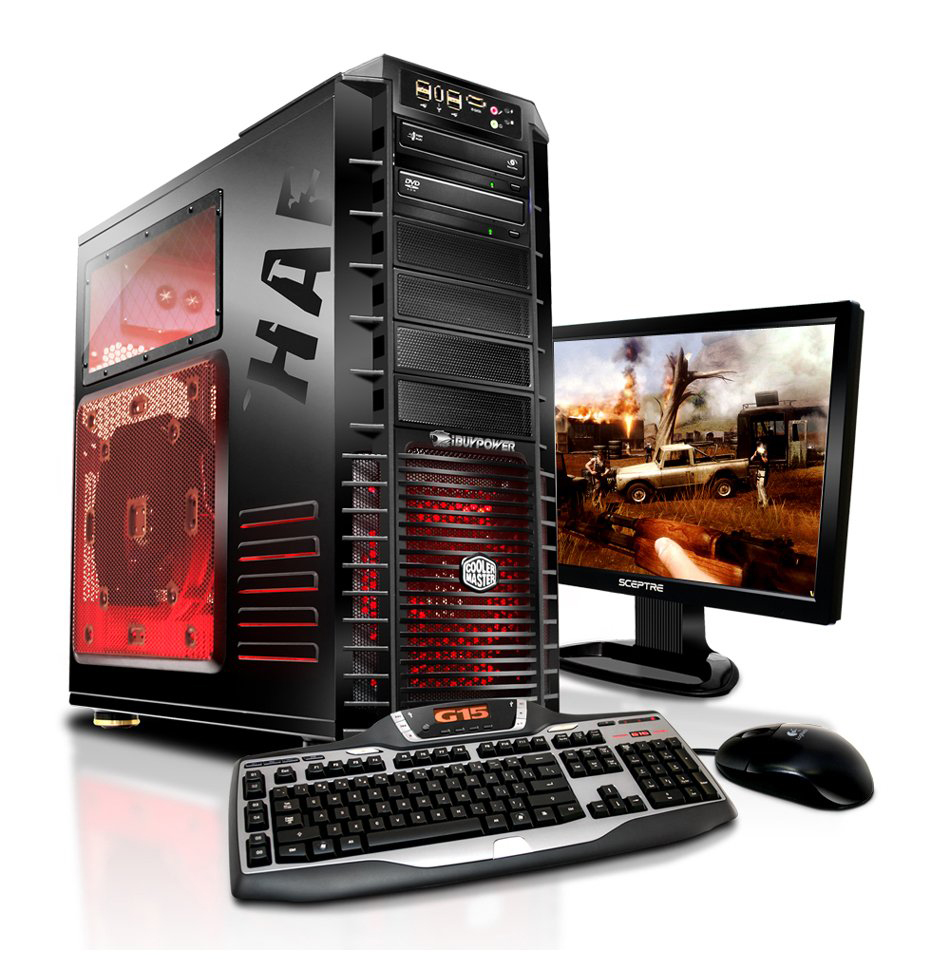
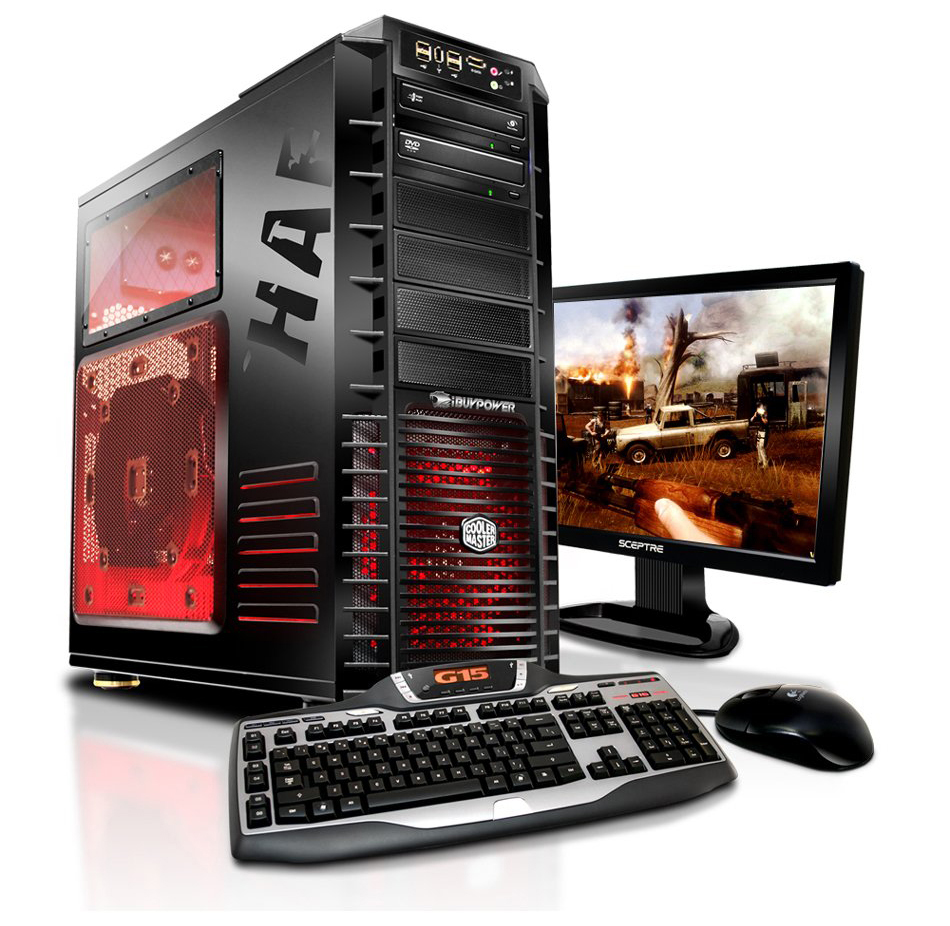
Removed the red border and made the featured images 100px smaller

diff --git a/styles/Home.module.css b/styles/Home.module.css
@@ -16,11 +16,11 @@
   width: 300px;
   height: 300px;
   object-fit: contain;
-  border: 1px solid red;
+  /* border: 1px solid red; */
 }
 
 .big-image {
-  width: 900px;
-  height: 900px;
+  width: 800px;
+  height: 800px;
   object-fit: contain;
 }
